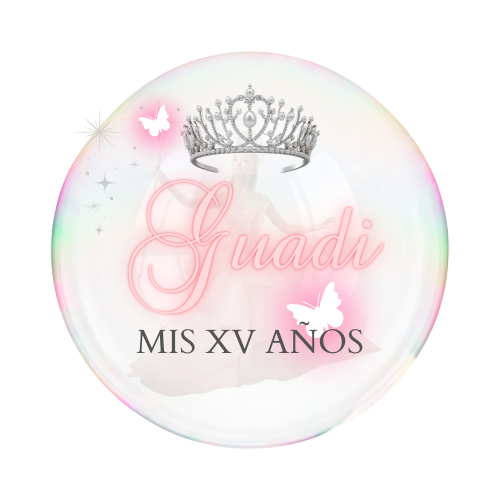
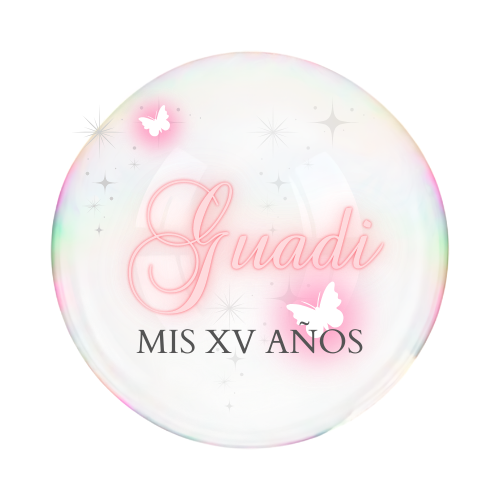
Add files via upload

Changed region(s): [[0.36, 0.18, 0.66, 0.36]]

diff --git a/modelo/Guadi140226/index.html b/modelo/Guadi140226/index.html
@@ -84,6 +84,10 @@
 
         </nav>
 
+   <div class="contenedor-imagen">
+  <img src="./files/miniatura.png" alt="Descripción de la imagen" class="imagen-con-margen">
+</div>
+
         <section class="music">
 
             <h3 class="music__title">Dale Play!
@@ -116,11 +120,7 @@
 
         </section>
 
-        <section class="waves">
-            <div class="wave wave1"></div>
-            <div class="wave wave2"></div>
-            <div class="wave wave3"></div>
-        </section>
+        
 
     </header>
 
@@ -132,11 +132,7 @@
   Tu navegador no soporta video HTML5.
 </video>
 
-        <section class="name">
-
-            <img src="./files/miniatura.png" alt="" class="name__img aos-init aos-animate" data-aos="flip-right">
-
-        </section>
+       
 
         <section class="temporizador contenedor block glow aos-init aos-animate" id="temporizador" data-aos="fade-up">
             <h3 class="title title--tempo">Falta muy poquito</h3>
@@ -183,7 +179,17 @@
         <!-- separador: -->
 
 
-
+<section class="frase contenedor aos-init aos-animate" data-aos="fade-up">
+            <div class="block glow">
+                 <br><h3 class="title title--active">Sábado</h3>
+                 <p class="subtitle subtitle--active">
+                       14 de Febrero del 2026<br>De 21:00 a 04:00 hs</p><br>
+                          <a class="boton__cta" href="https://calendar.google.com/calendar/event?action=TEMPLATE&tmeid=MHFpbG9uODUwcTEyZWdtcXZrNmdnMWxlZGsgNWswMXNjYjRpZXZlbnB1Y3A5NGtnNTEwZGdAZw&tmsrc=5k01scb4ievenpucp94kg510dg%40group.calendar.google.com">Agendar</a><br><br>
+            </div>
+        </section>
+        <!-- separador: -->
+        <img class="img__separador aos-init aos-animate" src="./files/separador.png" alt="" data-aos="flip-right">
+        <!-- separador: -->
 
         <section class="donde" id="donde">
 
@@ -201,9 +207,9 @@
                 </article>
             -->
                 <article class="partedos contenedor block glow aos-init aos-animate" data-aos="fade-left">
-                    <h3 class="title title--active">Sábado</h3>
+                    <h3 class="title title--active">Lugar de Celebración</h3>
                     <p class="parrafo parrafo--donde">
-                       14 de Febrero del 2026<br>De 21:00 a 04:00 hs<br>"Victorian Center"<br>Av. San Martín 1267, Primer piso<br>Rosario, Santa Fe</p>
+                    <br>"Victorian Center"<br>Av. San Martín 1267, Primer piso<br>Rosario, Santa Fe</p>
                     <iframe src="https://www.google.com/maps/embed?pb=!1m18!1m12!1m3!1d3347.941742533903!2d-60.637996411949075!3d-32.95254747544083!2m3!1f0!2f0!3f0!3m2!1i1024!2i768!4f13.1!3m3!1m2!1s0x95b7a976c5914475%3A0x5b0da7424331297e!2sVictorian%20Center!5e0!3m2!1ses!2sar!4v1765735290934!5m2!1ses!2sar" width="60%" height="40%" style="border:0;" allowfullscreen="" loading="lazy" referrerpolicy="no-referrer-when-downgrade"></iframe>
                     <p></p>
                     <a class="boton__cta" href="https://maps.app.goo.gl/ZcSQvbHSNZ8ja9ay8?g_st=ac">Ver ubicación</a>
@@ -570,7 +576,7 @@
             <div class="confirmacion__container">
                       <h4 class="title title--playlist">Confirmar Presencia</h4>
                 <h4 class="parrafo parrafo--confirmacion aos-init" data-aos="fade-right">
-                    Recordá que tenes hasta el día 14 de Enero del 2026 para confirmar tu
+                    Recordá que tenés hasta el día 14 de Enero del 2026 para confirmar tu
                     presencia <br>
                 </h4>
               

diff --git a/modelo/Guadi140226/files/styles.css b/modelo/Guadi140226/files/styles.css
@@ -11,7 +11,7 @@
 
 :root {
     /*--fuentes--*/
-    --font-montserrat: "Montserrat", sans-serif;
+    --font-montserrat: "Playfair Display", serif;
     --font-neue: "Playfair Display", serif;
     --font-rancho:  "Dancing Script", cursive;
     --font-baloo: "Playfair Display", serif;
@@ -177,8 +177,7 @@ header {
     min-height: 600px;
     position: relative;
 
-    background-image: linear-gradient(to top, rgba(255, 117, 186, 0.129), rgba(65, 54, 54, 0.055)), url(./fondo.jpg);
-    background-position: center;
+       background-position: center;
     background-size: cover;
     overflow: hidden;
     mask-image: linear-gradient(rgb(0, 0, 0) 90%, transparent);
@@ -1645,6 +1644,11 @@ header {
     width: 100%;
     height: 100%;
     z-index: 1000;
+}
+.contenedor-imagen img {
+  max-width: 100%;
+  height: auto;
+  display: block;
 }
 
 .menuFoto-overlay {
